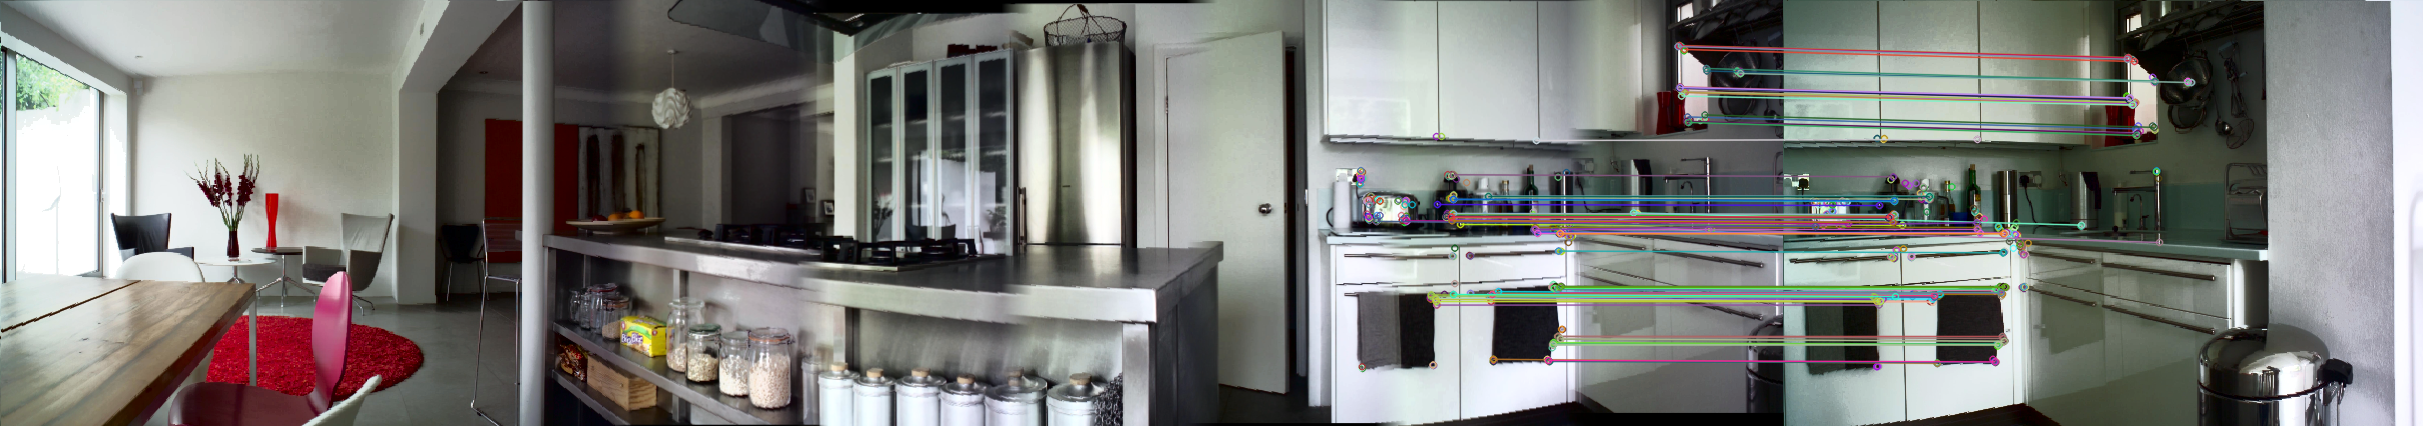
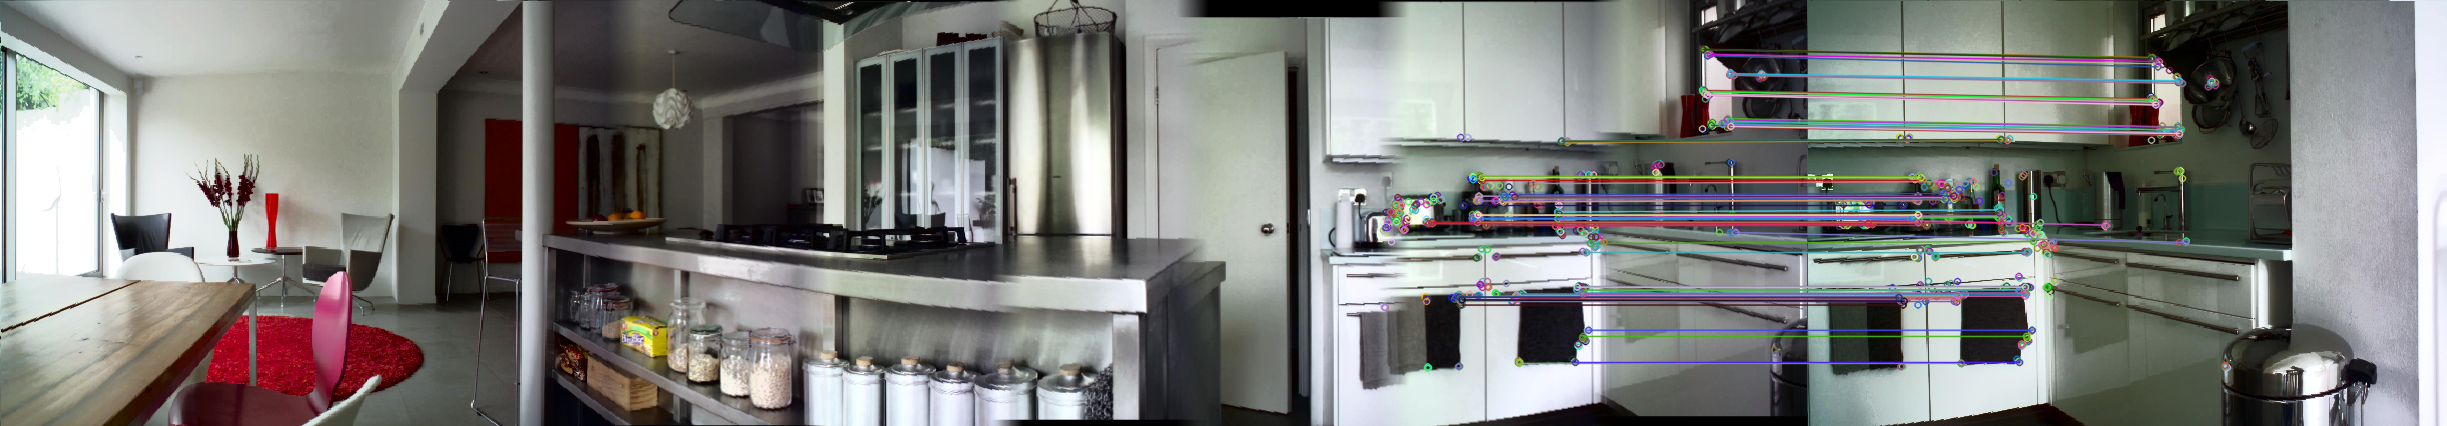
good result on kitchen

diff --git a/HW4/myinclude.h b/HW4/myinclude.h
@@ -7,6 +7,7 @@
 #include <opencv2/core.hpp>
 #include <tuple>
 #include <opencv2/features2d.hpp>
+#include <opencv2/calib3d/calib3d.hpp>
 using namespace std;
 using namespace cv;
 
@@ -123,7 +124,7 @@ void maskImages(const Mat& imgleft, const Mat& imgright, Mat& maskRight, Mat& ma
 }
 
 void orbDetection(Mat& img, Mat& mask, vector<KeyPoint>& keypoints, Mat& descriptors) {
-	int nfeatures = 300;//300
+	int nfeatures = 500;//300
 	int FASTthres = 20;//25
 	Ptr<ORB> orb = ORB::create(nfeatures,1.2f,8,31,0,2,ORB::HARRIS_SCORE,31,FASTthres);
 	//Ptr<AKAZE> akaze = AKAZE::create(); TODO IMPLEMENT AKAZE
@@ -144,7 +145,7 @@ void matchingRefine(vector<DMatch>& matches, vector<KeyPoint>& keypoints1, vecto
 		tab.at<float>(i, 0) = matches[i].distance;
 	sortIdx(tab, index, SORT_EVERY_COLUMN + SORT_ASCENDING);
 	vector<DMatch> bestMatches;
-	int limit = 100;//GOOD
+	int limit = 150;//GOOD
 		if (nbMatch < limit) {
 			limit = nbMatch;
 		}
@@ -159,9 +160,35 @@ void matchingRefine(vector<DMatch>& matches, vector<KeyPoint>& keypoints1, vecto
 	}
 	matches = bestMatches;
 }
+/*
+void myRANSAC(Mat& H, vector<Point2f>& kp1_refined, vector<Point2f>& kp2_refined) {
+	int r, Ncounter = 0, Ocounter = 0;
+	float s_x, s_y, s_xn, s_yn, fin_x, fin_y;
+	vector<int> corr;
+	for (size_t k = 0; k < 50; k++)
+	{
+		r = rand() % kp1_refined.size;
+		s_x = kp2_refined.at(r).x - kp1_refined.at(r).x;
+		s_y = kp2_refined.at(r).y - kp1_refined.at(r).y;
+		for (size_t n = 0 ; n < kp1_refined.size(); ++n)
+		{
+			s_xn = kp2_refined.at(n).x - kp1_refined.at(n).x;
+			s_yn = kp2_refined.at(n).y - kp1_refined.at(n).y;
+			if (abs(s_xn - s_x) + abs(s_yn - s_y) < 5) {
+				Ncounter = Ncounter + 1;
+				corr[]
+			}
+		}
+		if (Ncounter > Ocounter) {
+			Ocounter = Ncounter;
+			fin_x = s_x;
+			fin_y = s_y;
 
+		}
+	}
+}*/
 void homogTranslation(Mat& H, vector<Point2f>& kp1_refined, vector<Point2f>& kp2_refined) {
-	H = findHomography(kp2_refined, kp1_refined, RANSAC);
+	H = findHomography(kp2_refined, kp1_refined, RANSAC,3);
 	H.at<double>(0, 0) = 1;
 	H.at<double>(1, 0) = 0;
 	H.at<double>(0, 1) = 0;
@@ -185,12 +212,23 @@ void alphaBlend(Mat& img1, Mat&img2, Mat& mask, Mat& blended) {
 
 void connectingImages(Mat& imgleft, Mat& imgright, Mat& H, Mat& result,int firstWidth) {
 	Mat rightWarped;
-	warpPerspective(imgright, rightWarped, H, cv::Size(firstWidth + H.at<double>(0, 2), imgleft.rows));
+	warpPerspective(imgright, rightWarped, H, cv::Size(imgleft.cols + H.at<double>(0, 2), imgleft.rows));
+	
+
+	//resize right part
+	Mat biggerRight(result.rows, result.cols + H.at<double>(0, 2), CV_8UC3, Scalar(0));
+	Mat rightPart(biggerRight, Rect(biggerRight.cols - rightWarped.cols, 0, rightWarped.cols, rightWarped.rows));
+	rightWarped.copyTo(rightPart);
+	
+	//resize left part
+	Mat biggerLeft(result.rows, result.cols + H.at<double>(0, 2), CV_8UC3, Scalar(0));
+	Mat leftPart(biggerLeft, Rect(0, 0, result.cols, result.rows));
+	result.copyTo(leftPart);
 	
 	//blending mask
-	Mat mask(rightWarped.rows, rightWarped.cols, CV_8U, Scalar(255));
+	Mat mask(result.rows, result.cols + H.at<double>(0, 2), CV_8U, Scalar(255));
 	int value = 255;
-	for (int c = imgleft.cols-32; c <mask.cols; c++)
+	for (int c = result.cols-32; c <mask.cols; c++)
 	{
 		if (value > 0) {
 			mask.col(c).setTo(value);
@@ -201,15 +239,9 @@ void connectingImages(Mat& imgleft, Mat& imgright, Mat& H, Mat& result,int first
 			mask.col(c).setTo(0);
 		}
 	}
-
-
-	//resize left part
-	Mat biggerLeft(rightWarped.rows, rightWarped.cols, CV_8UC3, Scalar(0));
-	Mat leftPart(biggerLeft, Rect(0, 0, imgleft.cols, imgleft.rows));
-	imgleft.copyTo(leftPart);
 	
 	//alpha blending
-	alphaBlend(biggerLeft, rightWarped, mask, result);
+	alphaBlend(biggerLeft, biggerRight, mask, result);
 }
 
 void addRight(Mat& imgleft, Mat& imgright, Mat& result,int firstWidth,int i){
@@ -240,10 +272,10 @@ void addRight(Mat& imgleft, Mat& imgright, Mat& result,int firstWidth,int i){
 	//Drawing matches
 	Mat comparison;
 	cv::drawMatches(imgleft, keypoints1, imgright, keypoints2, matches, comparison);
-	string filename = "comparison " + to_string(i-1)+"-"+ to_string(i)+".png";
-	imwrite(filename, comparison);
-	//cv::imshow(filename, comparison);
-	//cv::waitKey();
+	//string filename = "comparison " + to_string(i-1)+"-"+ to_string(i)+".png";
+	//imwrite(filename, comparison);
+	cv::imshow("comparison", comparison);
+	cv::waitKey(1000);
 
 	//extract translation matrix from homography
 	Mat H;
@@ -252,7 +284,9 @@ void addRight(Mat& imgleft, Mat& imgright, Mat& result,int firstWidth,int i){
 	std::cout << H << endl;
 	std::cout << "connecting images"<<endl;
 	connectingImages(imgleft, imgright, H, result,firstWidth);
-	/*imshow("result", result);
-	waitKey();
-	destroyWindow(filename);*/
+	
+	//cv::imshow("result", result);
+	//cv::waitKey();
+	//cv::destroyWindow(filename);
+	
 }

diff --git a/HW4/HW4.cpp b/HW4/HW4.cpp
@@ -18,7 +18,7 @@ int main(int argc, char** argv)//TODO control this
 	//glob("lab/*.bmp",filepath, false);
 	glob("kitchen/*.bmp", filepath, false);
 
-	Mat imgleft = cv::imread(filepath[6]);
+	Mat imgleft = cv::imread(filepath[0]);
 	int firstWidth = imgleft.cols;
 	imgleft = cylindricalProj(imgleft, 33);
 	//imshow("testcolor", imgleft);
@@ -27,15 +27,15 @@ int main(int argc, char** argv)//TODO control this
 
 	//TODO try CLAHE
 	int n = filepath.size();
-	//int n = 9;
-	Mat result;
-	for (size_t i = 7; i < n; i++)
+	//int n = 3;
+	Mat result = imgleft;
+	for (size_t i = 1; i < n; i++)
 	{
 		std::cout << "Processing image number " << i << endl;
 		Mat imgright = cv::imread(filepath[i]);
 		imgright = imageEqualization((void*)&imgright);
 		addRight(imgleft, imgright, result,firstWidth,i);
-		imgleft = result;
+		imgleft = imgright;
 	}
 	//cv::imshow("result", result);
 	imwrite("resultBlended.png", result);
